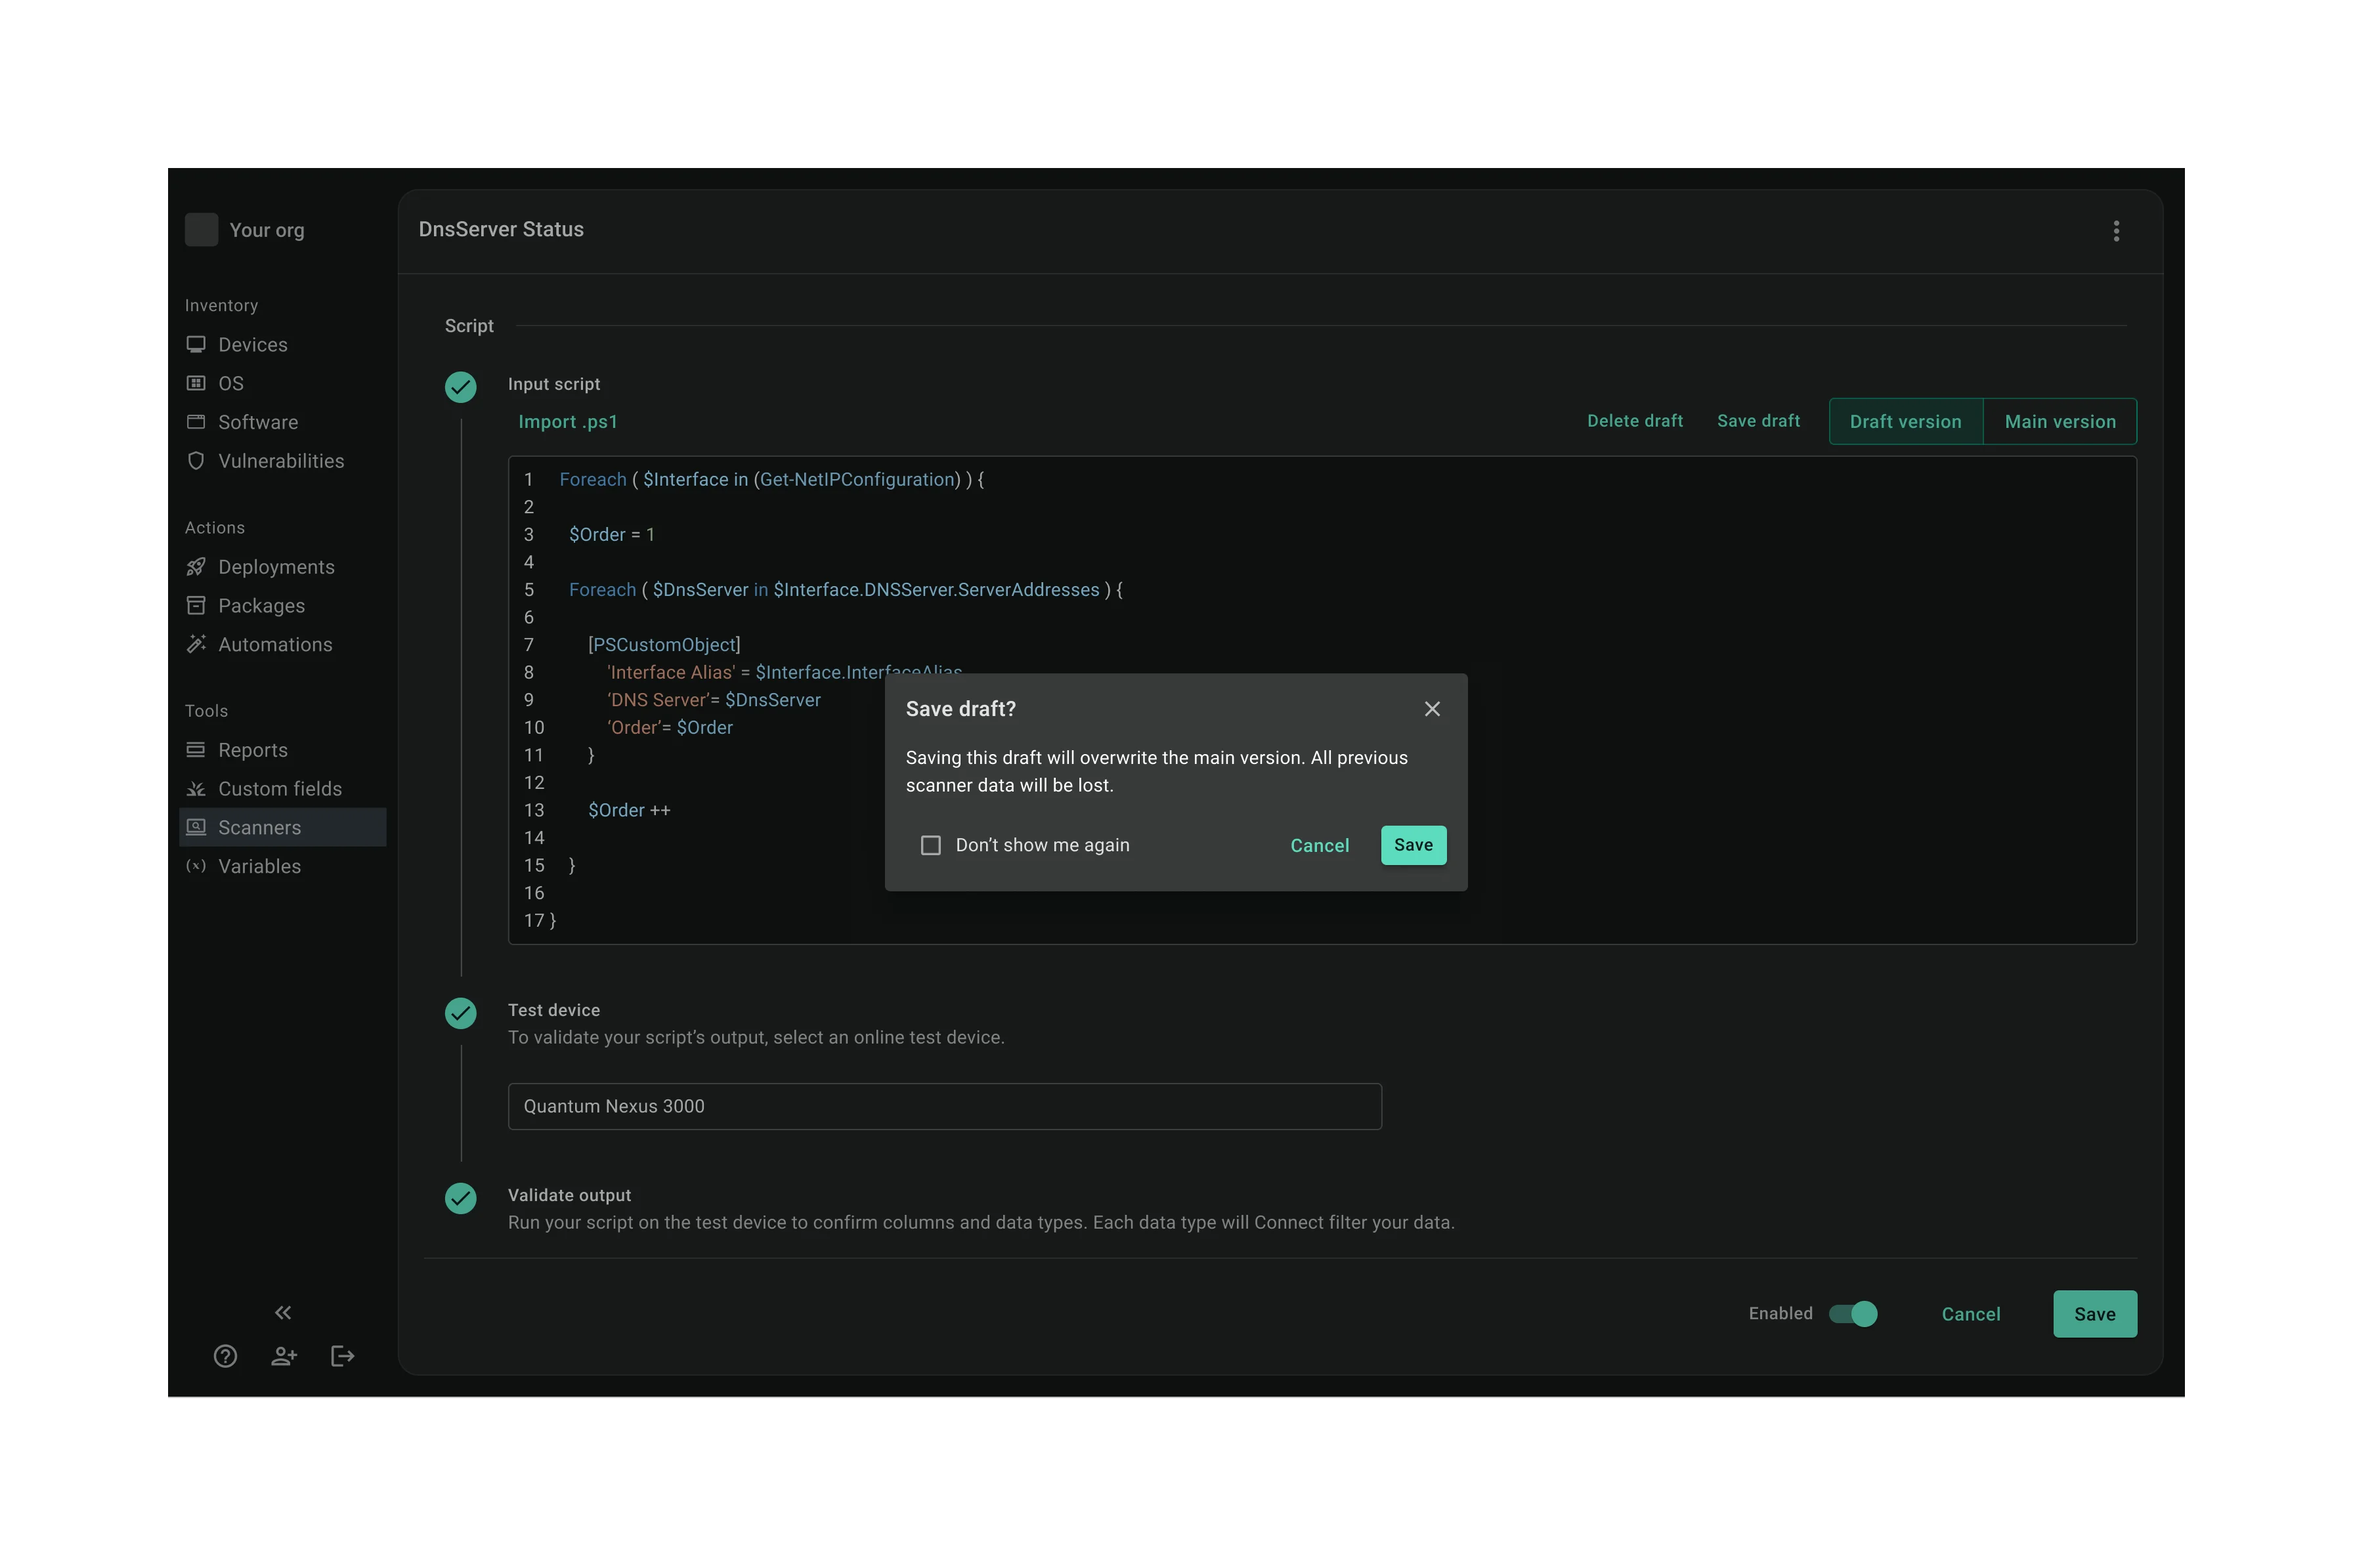
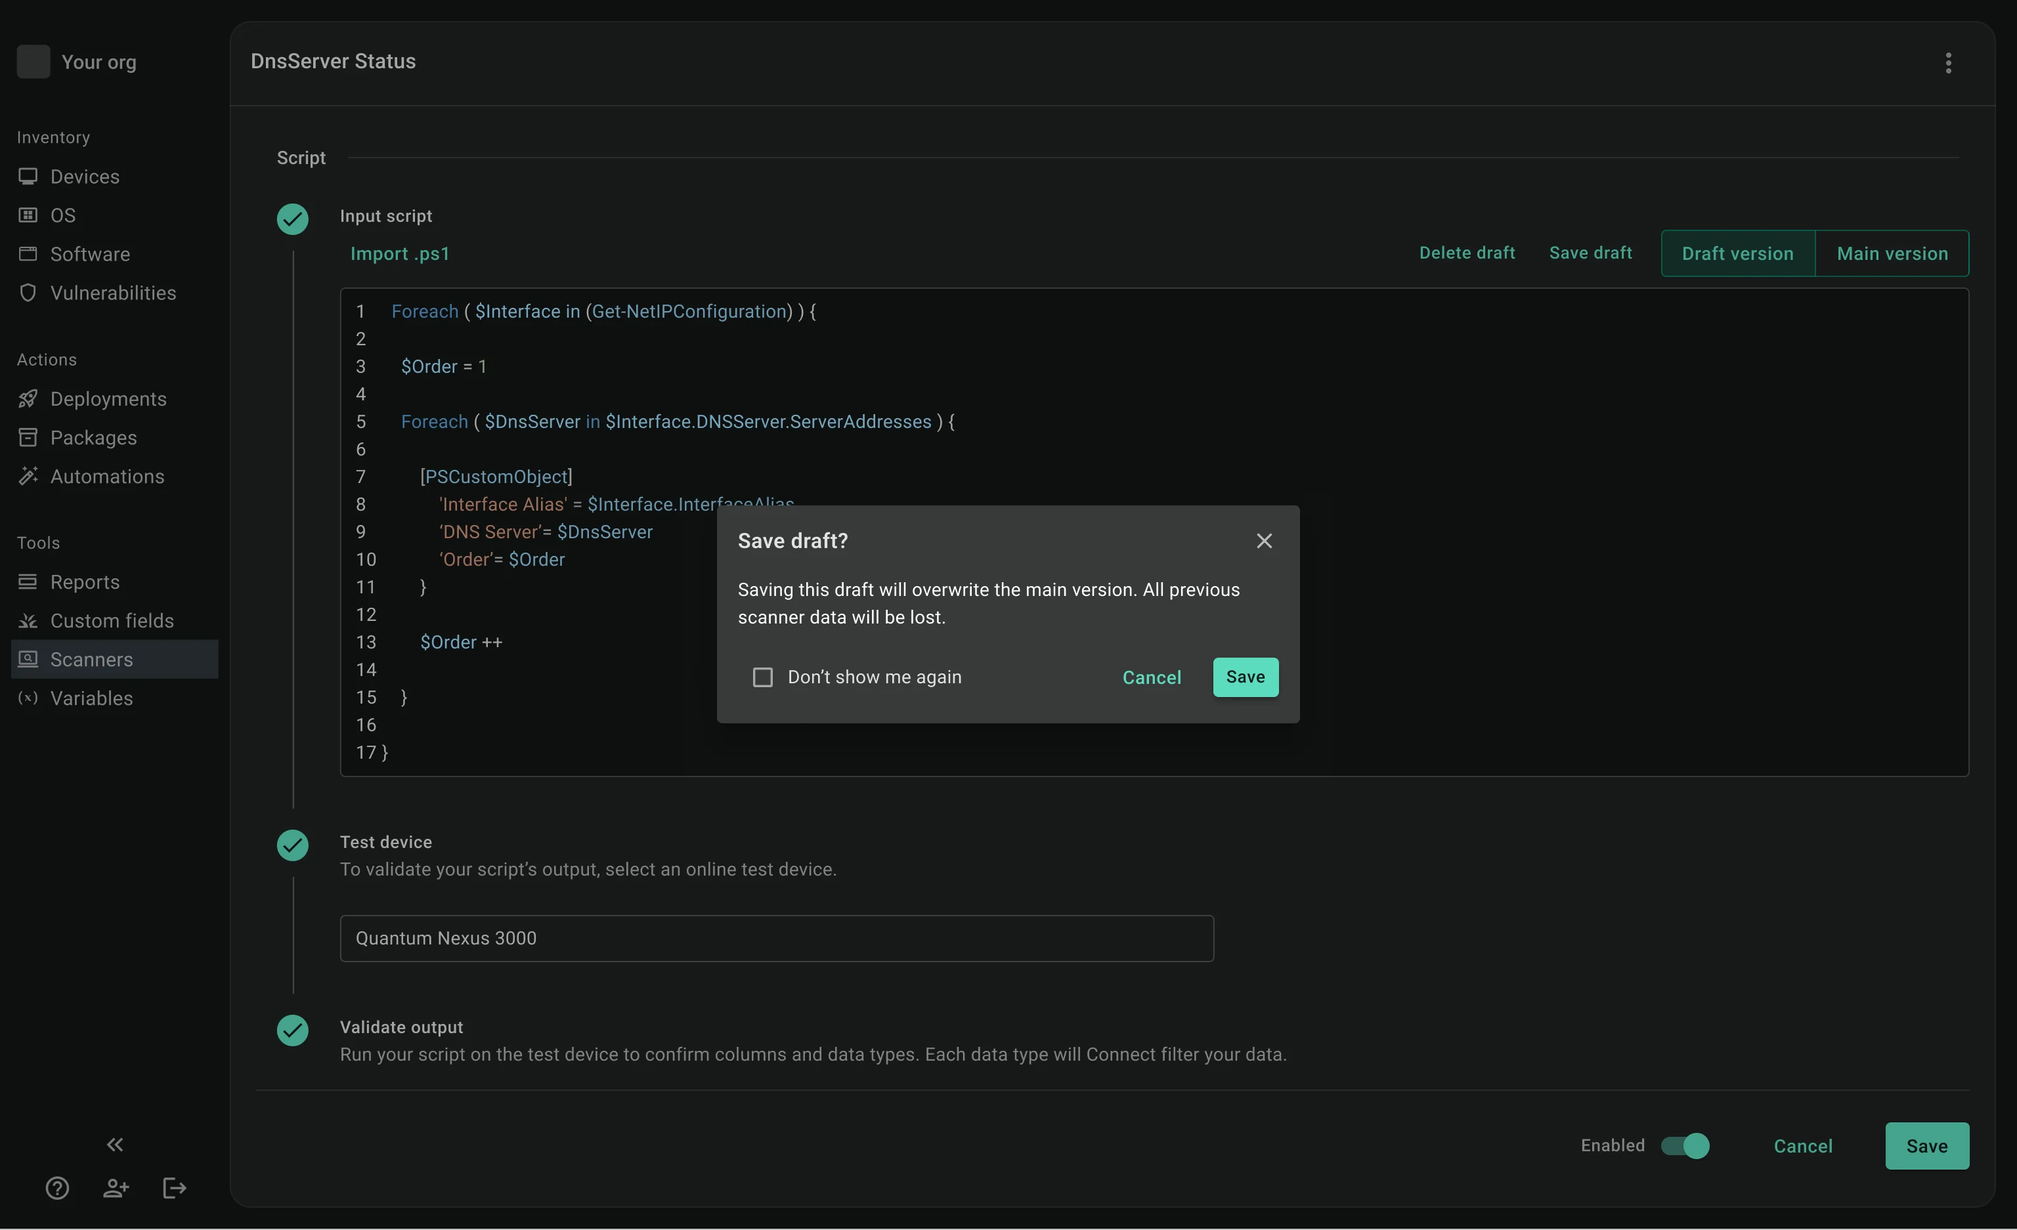
PowerShell Scanner case study — image layout polish and section edits
- Updated section images: full-width discord composite, trimmed v1 and draft modal, refreshed final powershell page
- Side-by-side images in "Making sense of infinite output" set to full width
- "Scanners as a fleet superpower" image set to full width
- Removed image from "Making PowerShell approachable" section
- Added medium size support for side-by-side image pairs in ProcessSection
- Updated Figma prototype link to scale-down-width scaling

diff --git a/src/data/projects.ts b/src/data/projects.ts
@@ -5,14 +5,14 @@ export type ProcessBlock =
   | { type: "link"; text: string; url: string }
   | { type: "expandable"; label: string; sections: { heading: string; items: string[] }[] }
   | { type: "mosaic"; images: string[] }
-  | { type: "gallery"; images: string[] };
+  | { type: "gallery"; images: string[]; columns?: 2 | 3 | 4 };
 
 export interface ProjectSection {
   title: string;
   body: string;
   image?: string;
   image2?: string;
-  imageSize?: "sm" | "full";
+  imageSize?: "sm" | "medium" | "full";
   video?: string;
   beforeVideo?: string;
   afterVideo?: string;
@@ -90,6 +90,7 @@ export const projects: Project[] = [
         blocks: [
           {
             type: "gallery",
+            columns: 2,
             images: [
               "/images/projects/powershell-scanner-pdq/di-powershell-scanner.webp",
               "/images/projects/powershell-scanner-pdq/di-scanner-selection.webp",
@@ -103,6 +104,7 @@ export const projects: Project[] = [
         title: "Three problems we had to solve",
         body: "Our first designs looked like a natural evolution of the original. When we tested early, the feedback was consistent: \"This is exactly what we expected.\" But when we brought those designs to engineering, three problems emerged that changed everything.",
         image: "/images/projects/powershell-scanner-pdq/v1-powershell-page.webp",
+        imageSize: "full",
         blocks: [
           {
             type: "list",
@@ -182,7 +184,6 @@ export const projects: Project[] = [
       {
         title: "Making PowerShell approachable",
         body: "A blank code editor is intimidating if you've never written a script before. I built two things into the UI to close that gap.",
-        image: "/images/projects/powershell-scanner-pdq/final-powershell-page.webp",
         blocks: [
           {
             type: "list",
@@ -198,17 +199,18 @@ export const projects: Project[] = [
         body: "The original scanner output whatever structure the user gave it — right or wrong. That worked on desktop where admins managed their own data. In Connect, filters and automations need typed, predictable data to function. So after testing on one device, admins assign a data type to each column their script returns: String, Integer, Float, Boolean, Date.\n\nWe were worried users would see this as extra friction. Instead, it became one of the most praised parts of the design — and more than a few people said they wished D&I had it.",
         image: "/images/projects/powershell-scanner-pdq/final-powershell-page.webp",
         image2: "/images/projects/powershell-scanner-pdq/final-draft-modal.webp",
-        imageSize: "sm",
+        imageSize: "full",
       },
       {
         title: "Scanners as a fleet superpower",
         body: "The 3-step workflow solved the system strain problem too. Scripts don't run fleet-wide until the admin confirms the output looks right on one device first — eliminating the risk of a bad script taking down infrastructure for everyone.\n\nOnce validated, scanner data becomes a filter condition and automation trigger across Connect. Check BitLocker status, group every at-risk device, deploy a fix, and automate it going forward — all from one scanner.",
         image: "/images/projects/powershell-scanner-pdq/final-filter-dropdown.webp",
+        imageSize: "full",
         blocks: [
           {
             type: "link",
             text: "Try the Figma prototype",
-            url: "https://www.figma.com/proto/PZrWAa8lOebnSHZRkaRUVw/Prototypes?page-id=0%3A1&node-id=172-47158&p=f&viewport=80%2C364%2C0.08&t=5bhOSKUzukzWI5W3-1&scaling=min-zoom&content-scaling=fixed&starting-point-node-id=172%3A47158",
+            url: "https://www.figma.com/proto/PZrWAa8lOebnSHZRkaRUVw/Prototypes?page-id=0%3A1&node-id=172-47158&p=f&viewport=80%2C364%2C0.08&t=5bhOSKUzukzWI5W3-1&scaling=scale-down-width&content-scaling=fixed&starting-point-node-id=172%3A47158",
           },
         ],
       },

diff --git a/src/components/case-study/ProcessSection.tsx b/src/components/case-study/ProcessSection.tsx
@@ -31,6 +31,23 @@ export default function ProcessSection({ sections }: { sections: ProjectSection[
                     </p>
                   )}
 
+                  {section.image && !section.image2 && (
+                    <div className={`mt-4 overflow-hidden rounded-xl mx-auto ${section.imageSize === "full" ? "max-w-5xl" : section.imageSize === "medium" ? "max-w-2xl" : "max-w-xl"}`}>
+                      <Lightbox src={section.image} alt={section.title} />
+                    </div>
+                  )}
+
+                  {section.image && section.image2 && (
+                    <div className={`mt-8 grid grid-cols-2 gap-4 ${section.imageSize === "sm" ? "max-w-lg mx-auto" : section.imageSize === "medium" ? "max-w-3xl mx-auto" : ""}`}>
+                      <div className="overflow-hidden rounded-xl">
+                        <Lightbox src={section.image} alt={section.title} />
+                      </div>
+                      <div className="overflow-hidden rounded-xl">
+                        <Lightbox src={section.image2} alt={section.title} />
+                      </div>
+                    </div>
+                  )}
+
                   {section.blocks?.map((block, bi) => {
                     if (block.type === "list") {
                       return (
@@ -100,11 +117,12 @@ export default function ProcessSection({ sections }: { sections: ProjectSection[
                     }
 
                     if (block.type === "gallery") {
-                      const cols = block.images.length <= 2 ? "sm:grid-cols-2" : block.images.length === 3 ? "sm:grid-cols-3" : "sm:grid-cols-4";
+                      const colCount = block.columns ?? (block.images.length <= 2 ? 2 : block.images.length === 3 ? 3 : 4);
+                      const colClass = colCount === 2 ? "sm:grid-cols-2" : colCount === 3 ? "sm:grid-cols-3" : "sm:grid-cols-4";
                       return (
-                        <div key={bi} className={`mt-8 grid gap-3 grid-cols-2 ${cols}`}>
+                        <div key={bi} className={`mt-8 grid gap-3 grid-cols-2 ${colClass}`}>
                           {block.images.map((src, ii) => (
-                            <div key={ii} className="overflow-hidden rounded-xl border border-border">
+                            <div key={ii} className="aspect-[4/3] overflow-hidden rounded-xl [&_img]:h-full [&_img]:w-full [&_img]:object-cover">
                               <Lightbox src={src} alt="" />
                             </div>
                           ))}
@@ -153,23 +171,6 @@ export default function ProcessSection({ sections }: { sections: ProjectSection[
 
                     return null;
                   })}
-
-                  {section.image && !section.image2 && (
-                    <div className={`mt-8 overflow-hidden rounded-xl border border-border ${section.imageSize !== "full" ? "max-w-xl mx-auto" : ""}`}>
-                      <Lightbox src={section.image} alt={section.title} />
-                    </div>
-                  )}
-
-                  {section.image && section.image2 && (
-                    <div className={`mt-8 grid grid-cols-2 gap-4 ${section.imageSize === "sm" ? "max-w-lg mx-auto" : ""}`}>
-                      <div className="overflow-hidden rounded-xl border border-border">
-                        <Lightbox src={section.image} alt={section.title} />
-                      </div>
-                      <div className="overflow-hidden rounded-xl border border-border">
-                        <Lightbox src={section.image2} alt={section.title} />
-                      </div>
-                    </div>
-                  )}
 
                   {section.video && (
                     <div className="max-w-4xl mx-auto">
